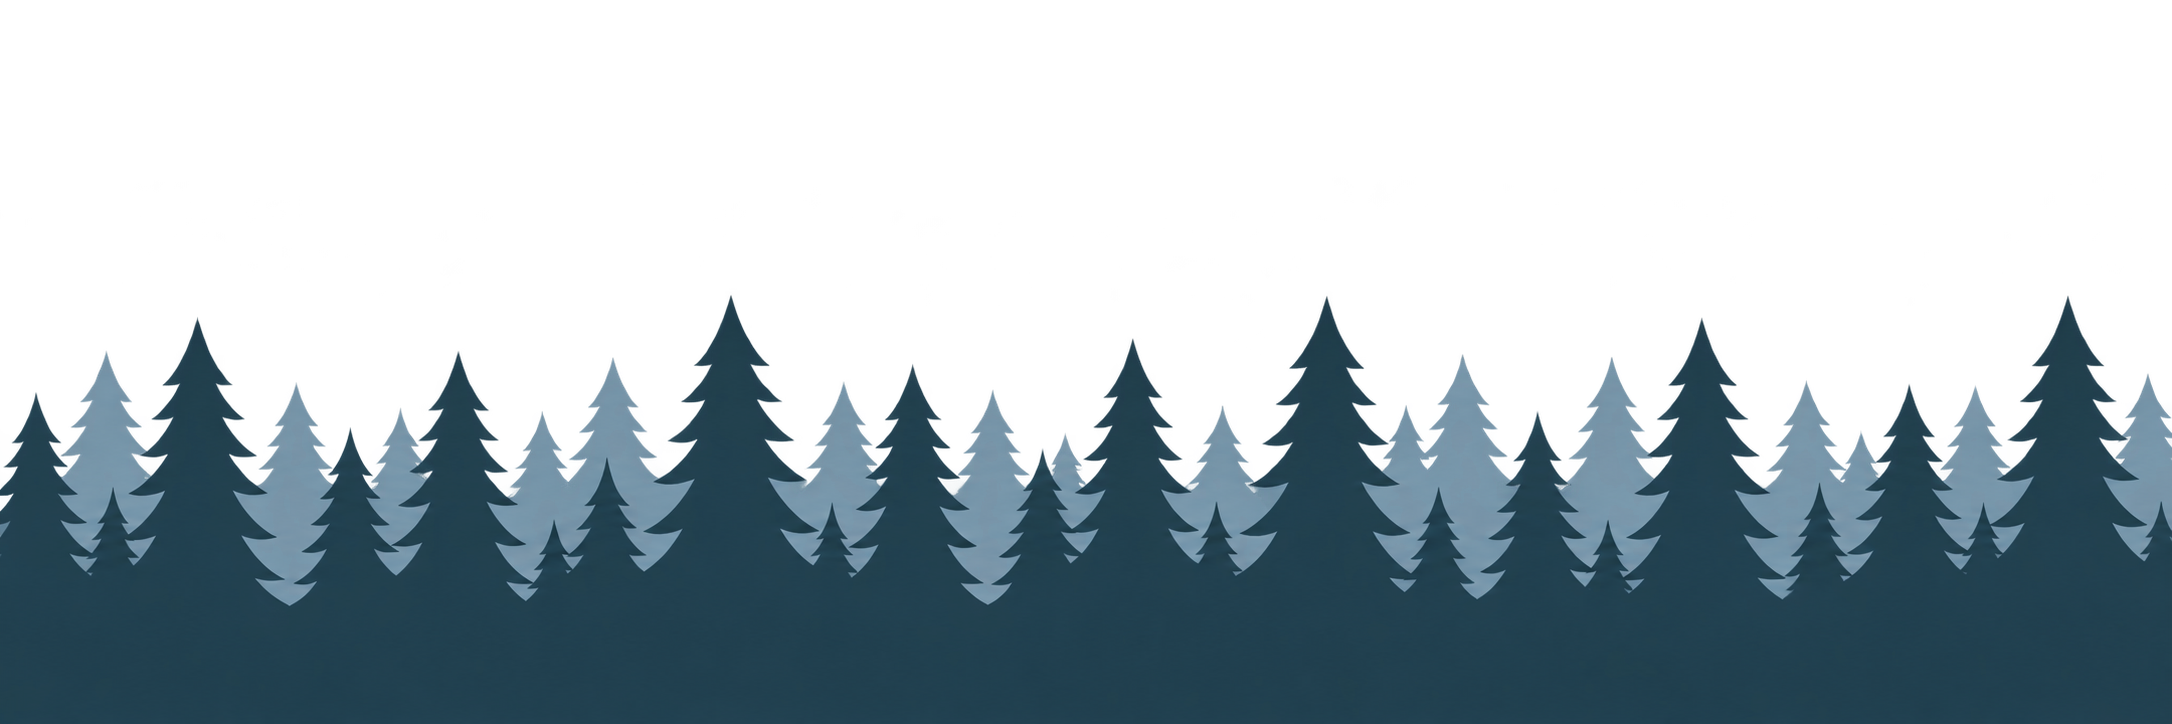
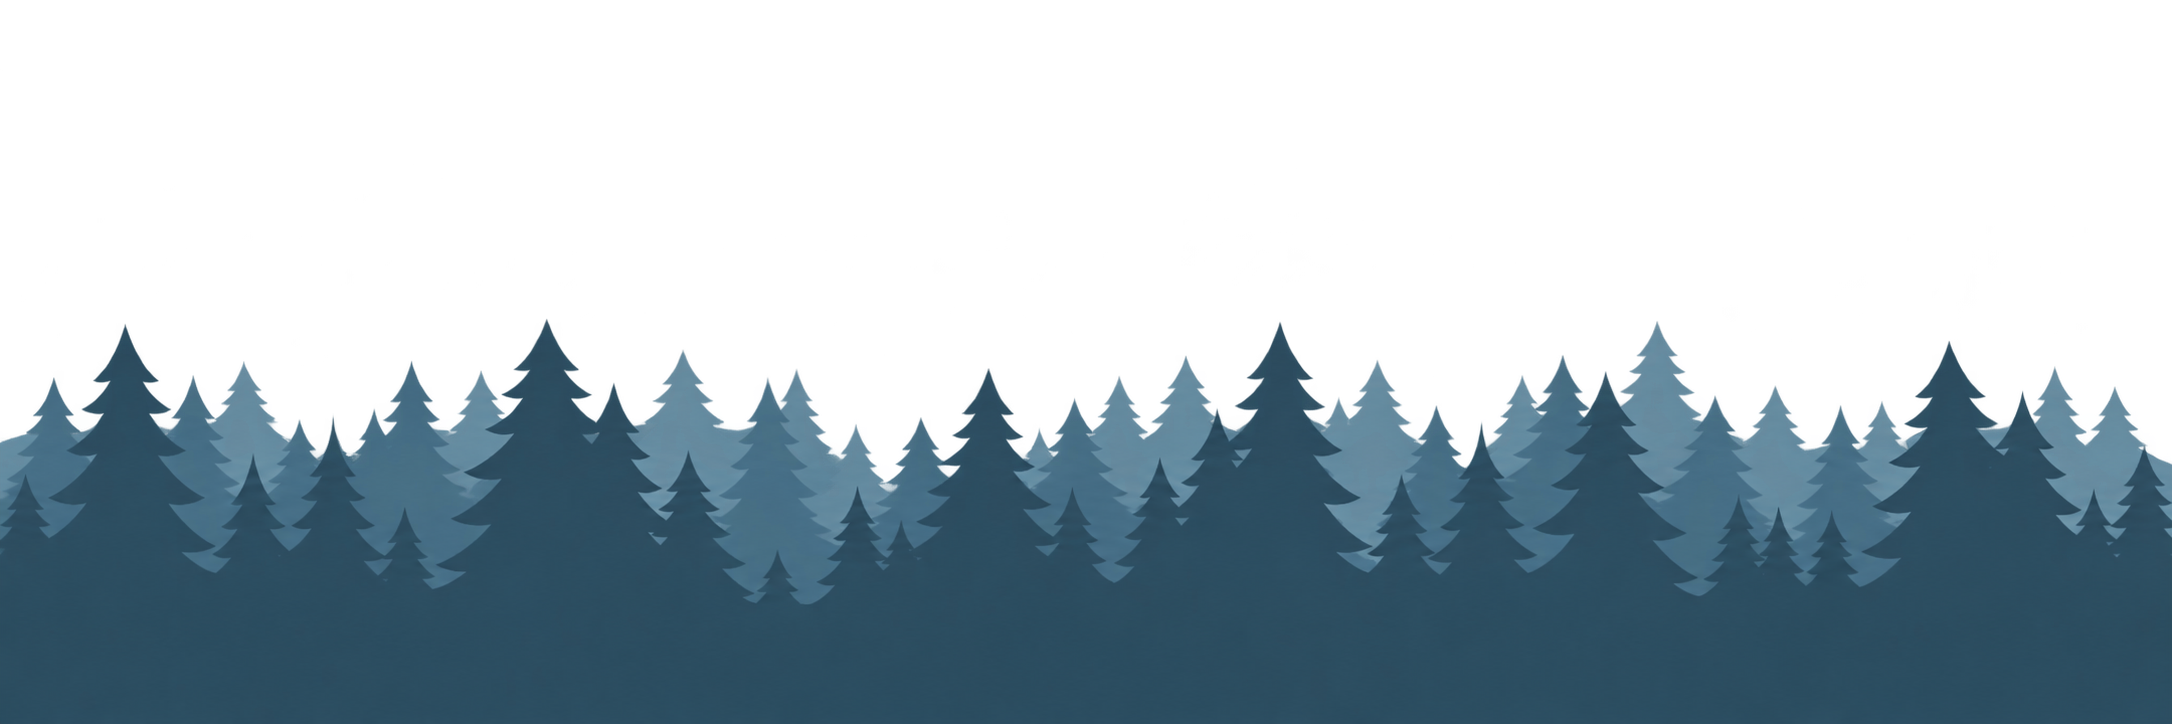
Replace forest artwork and reveal small trees above the snow

Changed region(s): [[0.0, 0.4254, 1.0, 0.8508]]

diff --git a/README.md b/README.md
@@ -47,16 +47,19 @@
 
 ## Лес и перекрытие
 
-Исходник первого вложения без изменений: `ArtSource/Environment/Forest.original.png`.
+Исходник последнего PNG леса без изменений: `ArtSource/Environment/Forest.original.png`.
 Импортированный PNG: `Assets/Art/Environment/Forest.png`. Второе вложение в проект
 не добавлено. У исходника уже есть альфа-канал: пиксель (0, 0) имеет RGBA (0, 0, 0, 0),
-883852 пикселя полностью прозрачны. В Texture Importer включено Alpha Is Transparency,
+861858 пикселей полностью прозрачны. В Texture Importer включено Alpha Is Transparency,
 используется Full Rect, сжатие отключено для сохранения края прозрачности.
 
-Масштаб елей равномерный: (1.4, 1.4, 1.4). Центральная полоса имеет ширину 30.408
+Масштаб елей равномерный: (1.2, 1.2, 1.2), центр полосы поднят до Y=1.35,
+чтобы маленькие ели были видны кронами и нижними ветвями над дальним холмом.
+Центральная полоса имеет ширину 26.064
 единицы; слева и справа сохранены дополнительные копии той же полосы. Подложка
 шириной 100 уходит от Y=−2.3 до −10.5 и перекрывается с плотной нижней частью
-изображения, заканчивающейся на Y=−4.85. Её верх скрыт лесом и дальним снегом.
+изображения, заканчивающейся на Y=−2.994. Цвет подложки согласован с новым PNG
+(RGB 43, 77, 96). Её верх скрыт лесом и дальним снегом.
 Поэтому понижение снежного края не открывает пустоту под картинкой.
 
 При значительном изменении камеры или размеров поля нужно согласовать ширину
